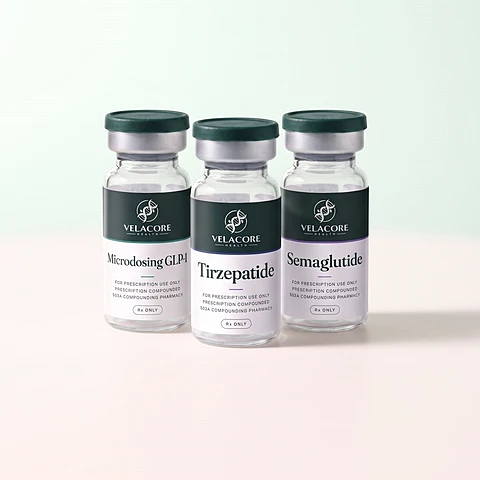
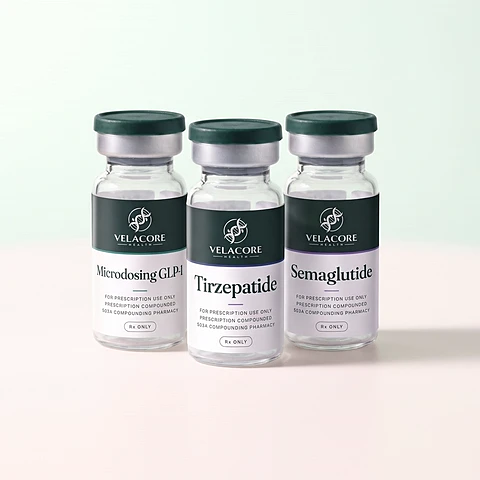
Pricing: needle-free form cards; Weight goal card uses the closer trio so it matches the other goal photos

Changed region(s): [[0.1875, 0.2188, 1.0, 0.7812]]

diff --git a/public/pricing.html b/public/pricing.html
@@ -70,7 +70,7 @@
     <section class="section pr-cards">
       <div class="container">
         <div class="section-head center"><h2>Programs and prices</h2><p class="section-sub">Pay month to month or choose a 12-week plan. A licensed clinician decides whether a program is appropriate for you.</p></div>
-        <div class="tgrid pr-grid"><article class="tcard" data-cat="weight" id="price-tirzepatide"><div class="tcard-media"><span class="tcard-cat">Weight</span><img class="tcard-photo" src="images/products/tirzepatide.webp" srcset="images/products/tirzepatide-800.webp 800w, images/products/tirzepatide.webp 1200w" sizes="(max-width:700px) 92vw, 380px" width="1200" height="1608" alt="Illustration: Tirzepatide vial" loading="lazy" /></div><div class="tcard-body"><h3>Tirzepatide</h3><p class="tcard-mech">Injection, 5 dose levels. Ships every 4 weeks.</p><div class="tcard-meta"><span class="tcard-price"><s class="was"><span class="vh">Monthly price after the first month </span>$279</s> $199 <small>first month, then $279/mo</small></span><span class="tcard-rx">Rx only</span></div><p class="tcard-plan">12-week plan $249/mo, $747 up front.</p><a class="tcard-link" href="programs/tirzepatide.html">What the price includes</a><a href="start/tirzepatide.html" class="btn btn-primary btn-block btn-sm" data-start="tirzepatide">Start visit</a></div></article><article class="tcard" data-cat="weight" id="price-semaglutide"><div class="tcard-media"><span class="tcard-cat">Weight</span><img class="tcard-photo" src="images/products/semaglutide.webp" srcset="images/products/semaglutide-800.webp 800w, images/products/semaglutide.webp 1200w" sizes="(max-width:700px) 92vw, 380px" width="1200" height="1608" alt="Illustration: Semaglutide vial" loading="lazy" /></div><div class="tcard-body"><h3>Semaglutide</h3><p class="tcard-mech">Injection or oral. Ships every 4 weeks.</p><div class="tcard-meta"><span class="tcard-price"><s class="was"><span class="vh">Monthly price after the first month </span>$229</s> $149 <small>first month, then $229/mo, injection</small></span><span class="tcard-rx">Rx only</span></div><p class="tcard-plan">12-week plan $199/mo, $597 up front. Oral form $259/mo.</p><a class="tcard-link" href="programs/semaglutide.html">What the price includes</a><a href="start/semaglutide.html" class="btn btn-primary btn-block btn-sm" data-start="semaglutide">Start visit</a></div></article><article class="tcard" data-cat="weight" id="price-microdosing"><div class="tcard-media"><span class="tcard-cat">Weight, entry tier</span><img class="tcard-photo" src="images/products/microdosing.webp" srcset="images/products/microdosing-800.webp 800w, images/products/microdosing.webp 1200w" sizes="(max-width:700px) 92vw, 380px" width="1200" height="1608" alt="Illustration: Microdosing GLP-1 vial" loading="lazy" /></div><div class="tcard-body"><h3>Microdosing GLP-1</h3><p class="tcard-mech">Oral or injection, 7 formulations. Ships every 4 weeks.</p><div class="tcard-meta"><span class="tcard-price"><s class="was"><span class="vh">Monthly price after the first month </span>$179</s> $129 <small>first month, then $179/mo</small></span><span class="tcard-rx">Rx only</span></div><p class="tcard-plan">12-week plan $159/mo, $477 up front.</p><a class="tcard-link" href="programs/microdosing.html">What the price includes</a><a href="start/microdosing.html" class="btn btn-primary btn-block btn-sm" data-start="microdosing">Start visit</a></div></article><article class="tcard" data-cat="vitality" id="price-nad"><div class="tcard-media"><span class="tcard-cat">Vitality</span><img class="tcard-photo" src="images/products/nad.webp" srcset="images/products/nad-800.webp 800w, images/products/nad.webp 1200w" sizes="(max-width:700px) 92vw, 380px" width="1200" height="1608" alt="Illustration: NAD+ vial" loading="lazy" /></div><div class="tcard-body"><h3>NAD+</h3><p class="tcard-mech">Injection, nasal or oral. Ships every 4 weeks.</p><div class="tcard-meta"><span class="tcard-price"><s class="was"><span class="vh">Monthly price after the first month </span>$199</s> $129 <small>first month, then $199/mo</small></span><span class="tcard-rx">Rx only</span></div><p class="tcard-plan">12-week plan $169/mo, $507 up front.</p><a class="tcard-link" href="programs/nad.html">What the price includes</a><a href="start/nad.html" class="btn btn-primary btn-block btn-sm" data-start="nad">Start visit</a></div></article><article class="tcard" data-cat="vitality" id="price-glutathione"><div class="tcard-media"><span class="tcard-cat">Vitality</span><img class="tcard-photo" src="images/products/glutathione.webp" srcset="images/products/glutathione-800.webp 800w, images/products/glutathione.webp 1200w" sizes="(max-width:700px) 92vw, 380px" width="1200" height="1608" alt="Illustration: Glutathione vial" loading="lazy" /></div><div class="tcard-body"><h3>Glutathione</h3><p class="tcard-mech">Form set by your clinician. Ships every 4 weeks.</p><div class="tcard-meta"><span class="tcard-price"><s class="was"><span class="vh">Monthly price after the first month </span>$199</s> $129 <small>first month, then $199/mo</small></span><span class="tcard-rx">Rx only</span></div><p class="tcard-plan">12-week plan $169/mo, $507 up front.</p><a class="tcard-link" href="programs/glutathione.html">What the price includes</a><a href="start/glutathione.html" class="btn btn-primary btn-block btn-sm" data-start="glutathione">Start visit</a></div></article><article class="tcard" data-cat="hormone" id="price-sermorelin"><div class="tcard-media"><span class="tcard-cat">Hormone support</span><img class="tcard-photo" src="images/products/sermorelin.webp" srcset="images/products/sermorelin-800.webp 800w, images/products/sermorelin.webp 1200w" sizes="(max-width:700px) 92vw, 380px" width="1200" height="1608" alt="Illustration: Sermorelin vial" loading="lazy" /></div><div class="tcard-body"><h3>Sermorelin</h3><p class="tcard-mech">Injection. Ships every 4 weeks.</p><div class="tcard-meta"><span class="tcard-price"><s class="was"><span class="vh">Monthly price after the first month </span>$199</s> $129 <small>first month, then $199/mo</small></span><span class="tcard-rx">Rx only</span></div><p class="tcard-plan">12-week plan $169/mo, $507 up front.</p><a class="tcard-link" href="programs/sermorelin.html">What the price includes</a><a href="start/sermorelin.html" class="btn btn-primary btn-block btn-sm" data-start="sermorelin">Start visit</a></div></article></div>
+        <div class="tgrid pr-grid"><article class="tcard" data-cat="weight" id="price-tirzepatide"><div class="tcard-media"><span class="tcard-cat">Weight</span><img class="tcard-photo" src="images/products/tirzepatide.webp" srcset="images/products/tirzepatide-800.webp 800w, images/products/tirzepatide.webp 1200w" sizes="(max-width:700px) 92vw, 380px" width="1200" height="1608" alt="Illustration: Tirzepatide vial" loading="lazy" /></div><div class="tcard-body"><h3>Tirzepatide</h3><p class="tcard-mech">Injection, 5 dose levels. Ships every 4 weeks.</p><div class="tcard-meta"><span class="tcard-price"><s class="was"><span class="vh">Monthly price after the first month </span>$279</s> $199 <small>first month, then $279/mo</small></span><span class="tcard-rx">Rx only</span></div><p class="tcard-plan">12-week plan $249/mo, $747 up front.</p><a class="tcard-link" href="programs/tirzepatide.html">What the price includes</a><a href="start/tirzepatide.html" class="btn btn-primary btn-block btn-sm" data-start="tirzepatide">Start visit</a></div></article><article class="tcard" data-cat="weight" id="price-semaglutide"><div class="tcard-media"><span class="tcard-cat">Weight</span><img class="tcard-photo" src="images/products/semaglutide.webp" srcset="images/products/semaglutide-800.webp 800w, images/products/semaglutide.webp 1200w" sizes="(max-width:700px) 92vw, 380px" width="1200" height="1608" alt="Illustration: Semaglutide vial" loading="lazy" /></div><div class="tcard-body"><h3>Semaglutide</h3><p class="tcard-mech">Injection or oral. Ships every 4 weeks.</p><div class="tcard-meta"><span class="tcard-price"><s class="was"><span class="vh">Monthly price after the first month </span>$229</s> $149 <small>first month, then $229/mo, injection</small></span><span class="tcard-rx">Rx only</span></div><p class="tcard-plan">12-week plan $199/mo, $597 up front. Oral form $259/mo.</p><a class="tcard-link" href="programs/semaglutide.html">What the price includes</a><a href="start/semaglutide.html" class="btn btn-primary btn-block btn-sm" data-start="semaglutide">Start visit</a></div></article><article class="tcard" data-cat="weight" id="price-microdosing"><div class="tcard-media"><span class="tcard-cat">Weight, entry tier</span><img class="tcard-photo" src="images/products/microdosing.webp" srcset="images/products/microdosing-800.webp 800w, images/products/microdosing.webp 1200w" sizes="(max-width:700px) 92vw, 380px" width="1200" height="1608" alt="Illustration: Microdosing GLP-1 vial" loading="lazy" /></div><div class="tcard-body"><h3>Microdosing GLP-1</h3><p class="tcard-mech">Oral or injection, 7 formulations. Ships every 4 weeks.</p><div class="tcard-meta"><span class="tcard-price"><s class="was"><span class="vh">Monthly price after the first month </span>$179</s> $129 <small>first month, then $179/mo</small></span><span class="tcard-rx">Rx only</span></div><p class="tcard-plan">12-week plan $159/mo, $477 up front.</p><a class="tcard-link" href="programs/microdosing.html">What the price includes</a><a href="start/microdosing.html" class="btn btn-primary btn-block btn-sm" data-start="microdosing">Start visit</a></div></article><article class="tcard" data-cat="vitality" id="price-nad"><div class="tcard-media"><span class="tcard-cat">Vitality</span><img class="tcard-photo" src="images/products/nad.webp" srcset="images/products/nad-800.webp 800w, images/products/nad.webp 1200w" sizes="(max-width:700px) 92vw, 380px" width="1200" height="1608" alt="Illustration: NAD+ vial" loading="lazy" /></div><div class="tcard-body"><h3>NAD+</h3><p class="tcard-mech">Injection, nasal or oral. Ships every 4 weeks.</p><div class="tcard-meta"><span class="tcard-price"><s class="was"><span class="vh">Monthly price after the first month </span>$199</s> $129 <small>first month, then $199/mo</small></span><span class="tcard-rx">Rx only</span></div><p class="tcard-plan">12-week plan $169/mo, $507 up front.</p><a class="tcard-link" href="programs/nad.html">What the price includes</a><a href="start/nad.html" class="btn btn-primary btn-block btn-sm" data-start="nad">Start visit</a></div></article><article class="tcard" data-cat="vitality" id="price-glutathione"><div class="tcard-media"><span class="tcard-cat">Vitality</span><img class="tcard-photo" src="images/products/glutathione.webp" srcset="images/products/glutathione-800.webp 800w, images/products/glutathione.webp 1200w" sizes="(max-width:700px) 92vw, 380px" width="1200" height="1608" alt="Illustration: Glutathione vial" loading="lazy" /></div><div class="tcard-body"><h3>Glutathione</h3><p class="tcard-mech">Form set by your clinician. Ships every 4 weeks.</p><div class="tcard-meta"><span class="tcard-price"><s class="was"><span class="vh">Monthly price after the first month </span>$199</s> $129 <small>first month, then $199/mo</small></span><span class="tcard-rx">Rx only</span></div><p class="tcard-plan">12-week plan $169/mo, $507 up front.</p><a class="tcard-link" href="programs/glutathione.html">What the price includes</a><a href="start/glutathione.html" class="btn btn-primary btn-block btn-sm" data-start="glutathione">Start visit</a></div></article><article class="tcard" data-cat="hormone" id="price-sermorelin"><div class="tcard-media"><span class="tcard-cat">Hormone support</span><img class="tcard-photo" src="images/products/sermorelin.webp" srcset="images/products/sermorelin-800.webp 800w, images/products/sermorelin.webp 1200w" sizes="(max-width:700px) 92vw, 380px" width="1200" height="1608" alt="Illustration: Sermorelin vial" loading="lazy" /></div><div class="tcard-body"><h3>Sermorelin</h3><p class="tcard-mech">Injection. Ships every 4 weeks.</p><div class="tcard-meta"><span class="tcard-price"><s class="was"><span class="vh">Monthly price after the first month </span>$199</s> $129 <small>first month, then $199/mo</small></span><span class="tcard-rx">Rx only</span></div><p class="tcard-plan">12-week plan $169/mo, $507 up front.</p><a class="tcard-link" href="programs/sermorelin.html">What the price includes</a><a href="start/sermorelin.html" class="btn btn-primary btn-block btn-sm" data-start="sermorelin">Start visit</a></div></article></div><div class="section-head center pr-forms-head"><h2>Needle-free forms</h2><p class="section-sub">Each of these forms is taken without a needle. A licensed clinician decides which form is appropriate for you.</p></div><div class="tgrid pr-grid pr-forms-grid"><article class="tcard" data-cat="weight" id="price-form-semaglutide-oral"><div class="tcard-media"><span class="tcard-cat">Weight</span><img class="tcard-photo" src="images/products/semaglutide-oral.webp" srcset="images/products/semaglutide-oral-800.webp 800w, images/products/semaglutide-oral.webp 1200w" sizes="(max-width:700px) 92vw, 380px" width="1200" height="1608" alt="Illustration: Semaglutide oral bottle" loading="lazy" /></div><div class="tcard-body"><h3>Semaglutide oral</h3><p class="tcard-mech">Taken by mouth daily. No needle.</p><div class="tcard-meta"><span class="tcard-price">$259 <small>a month, oral form</small></span><span class="tcard-rx">Rx only</span></div><p class="tcard-plan">Month to month. Cancel any time.</p><a class="tcard-link" href="programs/semaglutide.html#forms">What the price includes</a><a href="start/semaglutide-oral.html" class="btn btn-primary btn-block btn-sm" data-start="semaglutide-oral">Start visit</a></div></article><article class="tcard" data-cat="vitality" id="price-form-nad-nasal"><div class="tcard-media"><span class="tcard-cat">Vitality</span><img class="tcard-photo" src="images/products/nad-nasal.webp" srcset="images/products/nad-nasal-800.webp 800w, images/products/nad-nasal.webp 1200w" sizes="(max-width:700px) 92vw, 380px" width="1200" height="1608" alt="Illustration: NAD+ nasal spray" loading="lazy" /></div><div class="tcard-body"><h3>NAD+ nasal spray</h3><p class="tcard-mech">A nasal spray. No needle.</p><div class="tcard-meta"><span class="tcard-price"><s class="was"><span class="vh">Monthly price after the first month </span>$199</s> $129 <small>first month, then $199/mo</small></span><span class="tcard-rx">Rx only</span></div><p class="tcard-plan">12-week plan $169/mo, $507 up front.</p><a class="tcard-link" href="programs/nad.html#forms">What the price includes</a><a href="start/nad-nasal.html" class="btn btn-primary btn-block btn-sm" data-start="nad-nasal">Start visit</a></div></article><article class="tcard" data-cat="vitality" id="price-form-nad-oral"><div class="tcard-media"><span class="tcard-cat">Vitality</span><img class="tcard-photo" src="images/products/nad-oral.webp" srcset="images/products/nad-oral-800.webp 800w, images/products/nad-oral.webp 1200w" sizes="(max-width:700px) 92vw, 380px" width="1200" height="1608" alt="Illustration: NAD+ oral dropper" loading="lazy" /></div><div class="tcard-body"><h3>NAD+ oral dropper</h3><p class="tcard-mech">Drops taken by mouth. No needle.</p><div class="tcard-meta"><span class="tcard-price"><s class="was"><span class="vh">Monthly price after the first month </span>$199</s> $129 <small>first month, then $199/mo</small></span><span class="tcard-rx">Rx only</span></div><p class="tcard-plan">12-week plan $169/mo, $507 up front.</p><a class="tcard-link" href="programs/nad.html#forms">What the price includes</a><a href="start/nad-oral.html" class="btn btn-primary btn-block btn-sm" data-start="nad-oral">Start visit</a></div></article><article class="tcard" data-cat="weight" id="price-form-microdosing"><div class="tcard-media"><span class="tcard-cat">Weight, entry tier</span><img class="tcard-photo" src="images/products/microdosing-oral.webp" srcset="images/products/microdosing-oral-800.webp 800w, images/products/microdosing-oral.webp 1200w" sizes="(max-width:700px) 92vw, 380px" width="1200" height="1608" alt="Illustration: Microdosing GLP-1 oral dropper bottle" loading="lazy" /></div><div class="tcard-body"><h3>Microdosing GLP-1 oral</h3><p class="tcard-mech">Oral options among the 7 formulations. The clinician picks the form.</p><div class="tcard-meta"><span class="tcard-price"><s class="was"><span class="vh">Monthly price after the first month </span>$179</s> $129 <small>first month, then $179/mo</small></span><span class="tcard-rx">Rx only</span></div><p class="tcard-plan">12-week plan $159/mo, $477 up front.</p><a class="tcard-link" href="programs/microdosing.html">What the price includes</a><a href="start/microdosing.html" class="btn btn-primary btn-block btn-sm" data-start="microdosing">Start visit</a></div></article></div>
         <p class="treat-note">The prices shown are illustrative until our telehealth services partner's final price list is confirmed. Every program is prescription only, and the clinician decides whether a program is appropriate for you. Compounded medications are not FDA approved and are not reviewed by the FDA for safety or efficacy. Product images are illustrations. Your medication is prepared and labeled by a licensed 503A pharmacy and may look different.</p>
       </div>
     </section>

diff --git a/public/styles.css b/public/styles.css
@@ -1185,7 +1185,7 @@ p,.hub-text span,.tcard-mech,.form-tiles p{text-wrap:pretty}
 
 /* Nov 20 2026, Dourado: between 421 and 860 px the goal tiles are two columns and the 4 by 3 photo floated small in its
    column. The photo now fills the column: from 421 to 580 the column is about square, so a square cut centered on the
-   products is served; from 581 to 860 the column is wider than tall and the 4 by 3 photo covers it. The picture element
+   products is served; from 581 to 860 the column is wider than tall and the photo covers it, the 4 by 3 photo or, on the Weight card, the closer trio cut. The picture element
    is a block so the source tag never becomes a layout item. */
 .goal-media picture{display:block;width:100%}
 @media (min-width:421px) and (max-width:860px){.goal-media{display:block;position:relative;min-height:180px}.goal-media picture{position:absolute;inset:0}.goal-media img{position:absolute;inset:0;aspect-ratio:auto;width:100%;height:100%;object-fit:cover;object-position:50% 50%}.goal-tile[data-goal="hormone"] .goal-media img{object-position:50% 35%}}
@@ -1196,7 +1196,7 @@ p,.hub-text span,.tcard-mech,.form-tiles p{text-wrap:pretty}
 @media (min-width:1001px) and (max-width:1299px){.hub-card{grid-template-columns:1fr min(48%,288px)}}
 @media (min-width:701px) and (max-width:1299px){.hub-card img{object-position:50% 50%}}
 @media (min-width:1300px){.hub-weight img{object-position:50% 50%}}
-/* Nov 20 2026, Dourado: on phones the three-vial photo uses the closer goal-weight-hub cut in the weight section and on the Weight goal card */
+/* Nov 20 2026, Dourado: the three-vial photo uses the closer goal-weight-hub cut in the weight section on phones, and on the Weight goal card at every width except 421 to 580 px, where its own square cut is served */
 .wband-photo picture{display:block}
 /* Nov 20 2026, Dourado, no cut vials: on phones each goal photo fills the card's photo box and is placed so every vial shows whole */
 @media (max-width:420px){.goal-media{position:relative}.goal-media img{position:absolute;inset:0;aspect-ratio:auto;width:100%;height:100%;object-position:50% 50%}.goal-tile[data-goal="vitality"] .goal-media img{object-position:50% 44%}.goal-tile[data-goal="hormone"] .goal-media img{object-position:50% 40%}}
@@ -1204,3 +1204,10 @@ p,.hub-text span,.tcard-mech,.form-tiles p{text-wrap:pretty}
 .tcard:not(.tcard-wide) .tcard-media .tcard-photo{transform:none;object-position:50% 0%}
 /* the home program row uses square cuts that already hold the whole vial below the label, shown centered with no zoom */
 .prow-track .tcard:not(.tcard-wide) .tcard-media .tcard-photo{transform:none;object-position:50% 50%}
+/* Nov 20 2026, Dourado on his Samsung tablet: from 861 px the Weight card uses the closer trio cut, which is wider than 4 by 3, so it fills the photo box the same way */
+@media (min-width:861px){.goal-tile[data-goal="weight"] .goal-media{position:relative}.goal-tile[data-goal="weight"] .goal-media picture{position:absolute;inset:0}.goal-tile[data-goal="weight"] .goal-media img{position:absolute;inset:0;width:100%;height:100%;object-fit:cover;object-position:50% 50%}}
+/* Nov 20 2026, Dourado: the pricing page also carries the needle-free forms */
+.pr-forms-head{margin-top:56px}
+@media (min-width:1101px){.pr-forms-grid{grid-template-columns:repeat(4,1fr)}}
+@media (min-width:941px) and (max-width:1100px){.pr-forms-grid{grid-template-columns:1fr 1fr}}
+#price-form-microdosing::before{background:var(--cap-jade)}#price-form-microdosing .tcard-cat::before{background:var(--cap-jade)}

diff --git a/public/index.html b/public/index.html
@@ -143,7 +143,7 @@
         <h3 class="ch-q">What brings you here?</h3>
         <div class="goals-grid">
           <a class="goal-tile" href="#treatments" data-goal="weight">
-            <div class="goal-media"><picture><source media="(max-width:420px)" srcset="images/products/goal-weight-hub-800.webp 800w, images/products/goal-weight-hub-1200.webp 1200w" sizes="92vw" width="800" height="564" /><source media="(min-width:421px) and (max-width:580px)" srcset="images/lifestyle/goal-weight-sq-480.webp 480w, images/lifestyle/goal-weight-sq-800.webp 800w" sizes="42vw" width="800" height="800" /><img src="images/lifestyle/goal-weight-800.webp" srcset="images/lifestyle/goal-weight-480.webp 480w, images/lifestyle/goal-weight-800.webp 800w, images/lifestyle/goal-weight-1200.webp 1200w" sizes="(max-width:420px) 92vw, (max-width:860px) 42vw, 362px" width="1200" height="900" alt="Illustration: Microdosing GLP-1, Tirzepatide and Semaglutide vials" loading="lazy" /></picture></div>
+            <div class="goal-media"><picture><source media="(min-width:421px) and (max-width:580px)" srcset="images/lifestyle/goal-weight-sq-480.webp 480w, images/lifestyle/goal-weight-sq-800.webp 800w" sizes="42vw" width="800" height="800" /><img src="images/products/goal-weight-hub-800.webp" srcset="images/products/goal-weight-hub-800.webp 800w, images/products/goal-weight-hub-1200.webp 1200w" sizes="(max-width:420px) 92vw, (max-width:860px) 42vw, 362px" width="800" height="564" alt="Illustration: Microdosing GLP-1, Tirzepatide and Semaglutide vials" loading="lazy" /></picture></div>
             <div class="goal-body"><h3>Weight</h3><p>Three GLP-1 programs: Tirzepatide, Semaglutide and Microdosing GLP-1.</p><span class="goal-go">Start here</span></div>
           </a>
           <a class="goal-tile" href="#treatments" data-goal="vitality">

diff --git a/tools/build_pages.py b/tools/build_pages.py
@@ -238,7 +238,54 @@ def price_cards():
             f'<p class="tcard-plan">12-week plan {week12["price"]}/mo, {w.group(1)} up front.' + ''.join(f' Oral form {x["price"]}/mo.' for x in p["plans"] if x["id"] == "oral") + '</p>'
             f'<a class="tcard-link" href="programs/{p["slug"]}.html">What the price includes</a>'
             f'<a href="start/{p["slug"]}.html" class="btn btn-primary btn-block btn-sm" data-start="{p["slug"]}">Start visit</a></div></article>')
-    return '<div class="tgrid pr-grid">' + "".join(cards) + "</div>"
+    return ('<div class="tgrid pr-grid">' + "".join(cards) + "</div>"
+            + '<div class="section-head center pr-forms-head"><h2>Needle-free forms</h2><p class="section-sub">Each of these forms is taken '
+              'without a needle. A licensed clinician decides which form is appropriate for you.</p></div>'
+            + '<div class="tgrid pr-grid pr-forms-grid">' + "".join(form_cards()) + "</div>")
+
+
+def form_cards():
+    """Nov 20 2026, Dourado: the pricing page carries a card for each needle-free form the site lists, Semaglutide oral,
+    NAD+ nasal spray, NAD+ oral dropper and the Microdosing GLP-1 oral options. Each form line and price is read from the
+    program data in build_programs.py: the Semaglutide oral price from its oral plan, the NAD+ and Microdosing forms at
+    their program's own price."""
+    progs = {p["slug"]: p for p in bp.PROGRAMS}
+    out = []
+
+    def card(p, title, img, alt, mech, price, plan, link, start):
+        wi, he = img_size(img)
+        return (f'<article class="tcard" data-cat="{CAT_KEY.get(p["cat"], "weight")}" id="price-form-{start}"><div class="tcard-media"><span class="tcard-cat">{p["cat"]}</span>'
+                f'<img class="tcard-photo" src="images/{img}"{bp.prod_srcset(img, "", "(max-width:700px) 92vw, 380px")} width="{wi}" height="{he}" alt="Illustration: {alt}" loading="lazy" /></div>'
+                f'<div class="tcard-body"><h3>{title}</h3><p class="tcard-mech">{mech}</p>'
+                f'<div class="tcard-meta">{price}<span class="tcard-rx">Rx only</span></div>'
+                f'<p class="tcard-plan">{plan}</p>'
+                f'<a class="tcard-link" href="{link}">What the price includes</a>'
+                f'<a href="start/{start}.html" class="btn btn-primary btn-block btn-sm" data-start="{start}">Start visit</a></div></article>')
+
+    def week12(p):
+        w12 = next(x for x in p["plans"] if x["id"] == "12week")
+        up = re.match(r"^(\$\d+) charged up front", w12["note"]).group(1)
+        return f'12-week plan {w12["price"]}/mo, {up} up front.'
+
+    sema = progs["semaglutide"]
+    oral = next(x for x in sema["plans"] if x["id"] == "oral")
+    line = next(f for f in sema["forms"] if f[0] == "Oral")[2]
+    out.append(card(sema, "Semaglutide oral", "products/semaglutide-oral.webp", "Semaglutide oral bottle",
+                    re.sub(r"\s*\$\d+ a month\.?$", "", line),
+                    f'<span class="tcard-price">{oral["price"]} <small>a month, oral form</small></span>',
+                    "Month to month. " + oral["note"].split(". ")[-1], "programs/semaglutide.html#forms", "semaglutide-oral"))
+    nad = progs["nad"]
+    for name, img, line in nad["forms"]:
+        if name == "Injection":
+            continue
+        slug = "nad-" + {"Nasal spray": "nasal", "Oral dropper": "oral"}[name]
+        out.append(card(nad, f"NAD+ {name.lower()}", img, f"NAD+ {name.lower()}", line, bp.tcard_price(nad), week12(nad),
+                        "programs/nad.html#forms", slug))
+    micro = progs["microdosing"]
+    out.append(card(micro, "Microdosing GLP-1 oral", "products/microdosing-oral.webp", "Microdosing GLP-1 oral dropper bottle",
+                    f'Oral options among the {re.search(r"(\d+) formulations", micro["chips"][1]).group(1)} formulations. The clinician picks the form.', bp.tcard_price(micro), week12(micro),
+                    "programs/microdosing.html", "microdosing"))
+    return out
 
 
 CAT_KEY = {"Vitality": "vitality", "Hormone support": "hormone", "Sexual health": "sexual", "Women's health": "women"}

diff --git a/tools/prepare_images.py b/tools/prepare_images.py
@@ -129,7 +129,9 @@ def home_weight_card():
 GOAL_SIZES = ((480, 360), (800, 600), (1200, 900))
 # Nov 20 2026, Dourado: between 421 and 580 px the goal tiles are two columns about as tall as wide, and the 4 by 3 photo
 # floated small in them. These square cuts, x, y and side in the 2400 by 1792 source, center the products so they fill the column.
-GOAL_SQUARE = {"goal-weight": (412, 158, 1600), "goal-vitality": (304, 0, 1792), "goal-hormone": (304, 0, 1792)}
+# Nov 20 2026, Dourado on his Samsung tablet: the trio read small beside the other goal photos, so its square is tighter,
+# and outside 421 to 580 px the Weight card uses the closer goal-weight-hub cut.
+GOAL_SQUARE = {"goal-weight": (472, 185, 1480), "goal-vitality": (304, 0, 1792), "goal-hormone": (304, 0, 1792)}
 
 
 def goal_sizes(names):

diff --git a/docs/HANDOFF.md b/docs/HANDOFF.md
@@ -59,6 +59,8 @@ Nov 20 2026, thirteenth push, on Dourado's "Go ahead and push if you don't see a
 
 Nov 20 2026, Dourado: when the hidden programs launch, every section that lists programs must carry them. docs/launch-sexual-health-hrt.md now lists every surface, with the photo steps for the studio shots. The site audit has a new section, 2b, that fails if any live program, the six plus any slug in LIVE, is missing from its program page, Start page, pricing card, home program row, chooser, Treatments menu, sitemap, footer, product photo, menu thumbnail or square home-row photo; tested by pretending Women's HRT was live, which listed all eleven gaps.
 
+Nov 20 2026, vc-reviewer PASS, not pushed yet: the pricing page carries a Needle-free forms section, four cards built by form_cards in tools/build_pages.py, Semaglutide oral, NAD+ nasal spray, NAD+ oral dropper and Microdosing GLP-1 oral, every price from the program data. The Weight goal card uses the closer trio cut, goal-weight-hub, at every width except 421 to 580 px, where a tighter square, GOAL_SQUARE goal-weight 472, 185, 1480, is served; a first try at 587, 300, 1250 clipped the Microdosing vial from 421 to 428 px and was blocked by the reviewer. Reviewer notes, not blocking: on the pricing NAD+ cards the nozzle and dropper bulb sit beside the category label, not under it, nothing overlaps.
+
 Nov 20 2026, tenth push, goal cards on phones, vc-reviewer PASS after one block, pushed on Dourado's "Yes push": between 421 and 860 px the home goal tiles are two columns and the photo used to float small in its column. Now it fills the column: square cuts centered on the products from 421 to 580, made by prepare_images.py --goals GOAL_SQUARE, and the 4 by 3 photo covering the column from 581 to 860; the Sermorelin tile sits at 35 percent so its cap clears the top. The block was the picture tag set to display contents, which pushed the photo off-center from 581 to 605; fixed. Tightest margins, at 860 px: Vitality caps about 9 px, Sermorelin base about 5 px; re-check 860 if a crop moves.
 
 Nov 20 2026, decision: no agreement checkbox on the Start pages. Dourado compared a competitor on Agile that gates its Continue button behind an I agree checkbox, and decided against it because the site keeps no record of who ticked it. The consent record belongs in the partner's intake; two questions were added to the private OpenLoop follow-up draft: whether their intake shows and records Velacore's terms, refund and privacy policies, and how they want Agile and OpenLoop named before the intake.
